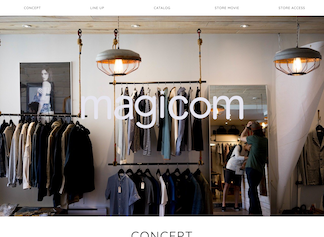
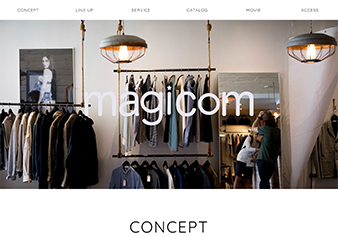
worksの写真を変更
写真を変更しました。

diff --git a/index.html b/index.html
@@ -66,9 +66,10 @@
       <nav class="drawer-nav" role="navigation">
         <ul class="drawer-menu">
           <li><a href="#sec1">About</a></li>
-          <li><a href="#sec2">Works-Web</a></li>
-          <li><a href="#sec3">Works-Graphic</a></li>
+          <li><a href="#sec2">Works | Web</a></li>
+          <li><a href="#sec3">Works | Graphic</a></li>
           <li><a href="#sec4">Skill</a></li>
+          <li><a href="#sec5">Contact</a></li>
           <li class="github"><a href="https://github.com/hasegawakana" target="_blank">GitHub<i class="fas fa-external-link-alt"></i></a></li>
         </ul>
       </nav>
@@ -90,7 +91,7 @@
           <div class="flex">
             <div class="works-item">
               <p class="works-img">
-                <img src="images/works-magicom.png" width="324" height="237" alt="架空革小物店のサイトmagicom">
+                <img src="images/works-magicom.png" width="338" height="237" alt="架空革小物店のサイトmagicom">
               </p>
               <div class="works-text">
                 <h3>架空革小物店のサイト<br>magicom</h3>
@@ -309,12 +310,12 @@
           </div><!--/skill-item-->
         </div><!--/flex-->
       </section><!--/skill-wrap-->
-      <section class="contact-wrap">
+      <section class="contact-wrap" id="sec5">
         <h2>Contact<span>お問い合わせ</span></h2>
         <div class="contact-item">
           <h3>ご質問等お気軽にお問い合せください。</h3>
           <div class="gmail">
-            <p><img src="images/apple-touch-icon-152x152.png" width="100" height="100" alt="gmailへのリンクです。"></p>
+            <p><img src="images/apple-touch-icon.png" width="100" height="100" alt="gmailへのリンクです。"></p>
             <p><a href="mailto:k.hasegawa0407@gmail.com">k.hasegawa0407@gmail.com</a></p>
           </div><!--/gmail-->
         </div><!--/contact-item-->

diff --git a/css/style.css b/css/style.css
@@ -27,20 +27,24 @@ header {
 }
 
 nav ul li {
-  line-height: 70px;
+  line-height: 60px;
   margin-left: 10%;
+}
+
+nav ul li:first-child {
+  margin-top: 14px;
 }
 
 nav ul li a {
   font-size: 1em;
   color: #000;
-  padding: 10px;
+  padding: 10px 0;
   position: relative;
 }
 
 nav ul a::after {
   position: absolute;
-  bottom: -2px;
+  bottom: 0;
   left: 0;
   display: block;
   content: "";
@@ -361,6 +365,10 @@ i.icon-size {
   display: flex;
   justify-content: center;
   align-items: center;
+}
+
+.contact-item img {
+  border-radius: 50%;
 }
 
 .gmail a {

diff --git a/css/drawer.css b/css/drawer.css
@@ -540,7 +540,7 @@
 }
 
 .drawer--right.drawer-open .drawer-nav, .drawer--right .drawer-hamburger, .drawer--right.drawer-open .drawer-navbar .drawer-hamburger {
-  right: 2.5%;
+  right: 0;
 }
 
 
@@ -559,10 +559,6 @@
 
 .drawer-hamburger:hover {
   background-color: #464646;
-}
-
-.drawer--right.drawer-open .drawer-hamburger {
-    right: 17.25rem;
 }
 
 /* width=device-width
